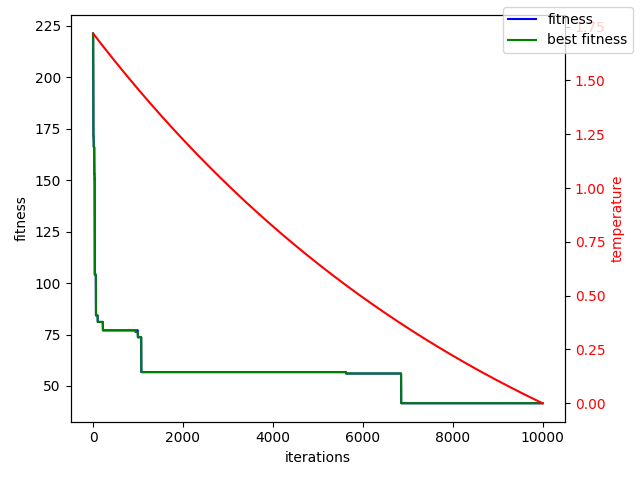
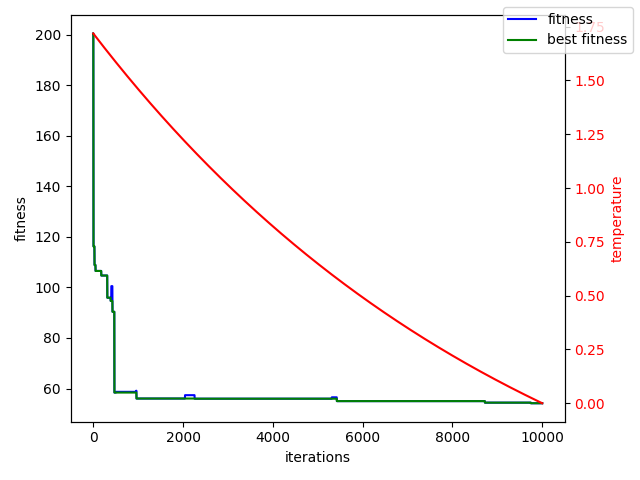
modified rastrigin files for GA

diff --git a/rastrigin.py b/rastrigin.py
@@ -1,11 +1,8 @@
+from continuous_fn import *
+from algorithms.simulated_annealing import *
+from algorithms.genetic_algorithm import *
 import numpy as np
 
-from continuous_fn import cts_mutate, cts_crossover
-from algorithms.simulated_annealing import (simulated_annealing, 
-                                    thermodynamic_simulated_annealing,
-                                    thermodynamic_init_temp,
-                                    print_simulated_annealing, 
-                                    metropolis_hastings_algorithm_probability)
 class Rastrigin():
     def __init__(self, n, A=10):
         self.n = n 
@@ -33,9 +30,9 @@ class Rastrigin():
     def mutate(self, x):
         return np.clip(cts_mutate(x, sigma=1), a_min=-5.12, a_max=5.12)
 
-    def crossover(self, p1, p2, num_children=1):
+    def crossover(self, p1, p2, num_children=2):
         unclipped = cts_crossover(p1, p2, num_children=num_children)
-        return [np.clip(unclip) for unclip in unclipped]
+        return [np.clip(unclip, -5.12, 5.12) for unclip in unclipped]
 
 Ns = [1, 5, 10]
 for n in Ns:
@@ -50,7 +47,16 @@ for n in Ns:
     """
     Genetic Algorithm
     """
+    print("-"*80)
+    print("Genetic Algorithm")
+    popSize = 100
+    crossoverRate = 0.7
+    mutationRate = 0.032
+    numGenerations = 10*n
 
+    init = [rastrigin.random_feasible_point() for i in range(popSize)]
+    res, best, avg, worst = geneticAlgorithm(init, rastrigin.crossover, crossoverRate, rastrigin.mutate, mutationRate, rastrigin.fitness, numGenerations)
+    printGA(best, avg, worst, f"{rastrigin_folder}GA_n={n}_Pop={popSize}_Gens={numGenerations}_crossRate={crossoverRate}_mutRat={mutationRate}.png")
 
     """
     Simulated Annealing

diff --git a/algorithms/genetic_algorithm.py b/algorithms/genetic_algorithm.py
@@ -131,7 +131,7 @@ def printGA(bestTuples, avg, worst, filename):
     fig, ax1 = plt.subplots()
     bestColor = 'green'
     avgColor = 'blue'
-    worstColor = 'red'
+    # worstColor = 'red'
 
     best = [f for (s,f) in bestTuples]
     solutions = [s for (s,f) in bestTuples]
@@ -141,7 +141,7 @@ def printGA(bestTuples, avg, worst, filename):
     plt.yscale("log")
     ax1.plot(best, color=bestColor, label='Best fitness')
     ax1.plot(avg, color=avgColor, label='Average fitness')
-    ax1.plot(worst, color=worstColor, label='Worst fitness')
+    # ax1.plot(worst, color=worstColor, label='Worst fitness')
     fig.legend()
     ax1.tick_params(axis='y')
 
